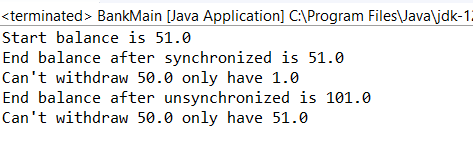
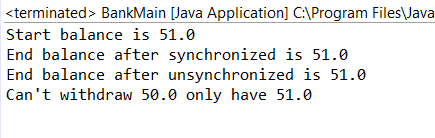
Synchronized/Unsync Bank account

Changed region(s): [[0.0, 0.3188, 0.8667, 0.7826], [0.0, 0.029, 1.0, 0.2899]]

diff --git a/UnsyncBank.java b/UnsyncBank.java
@@ -1,16 +1,16 @@
 package session8;
 
-public class SyncOnlineBank extends Thread {
+public class UnsyncBank extends Thread {
 	boolean deposit;
 	static Account t;
-	SyncOnlineBank(Account t,boolean deposit) {
+	UnsyncBank(Account t,boolean deposit) {
 		this.t=t;
 		this.deposit=deposit;
 	}
-	synchronized static void deposit(double amt) {
+	static void deposit(double amt) {
 		t.deposit(amt);
 	}
-	synchronized static void withdrawM(double amount) {
+	static void withdrawM(double amount) {
 		if(t.getBalance()>amount) {
 			t.withdraw(amount);
 		}
@@ -21,7 +21,7 @@ public class SyncOnlineBank extends Thread {
 	synchronized public void run() {
 		for(int i=0;i<100;i++) {
 			withdrawM(50);
-			deposit(50);
+			deposit(50);	
 		}
 	}
 }

diff --git a/BankMain.java b/BankMain.java
@@ -16,7 +16,6 @@ public class BankMain {
 		try {
 			Thread.sleep(2000);
 		} catch (InterruptedException e) {
-			// TODO Auto-generated catch block
 			e.printStackTrace();
 		}
 		us1.start();
